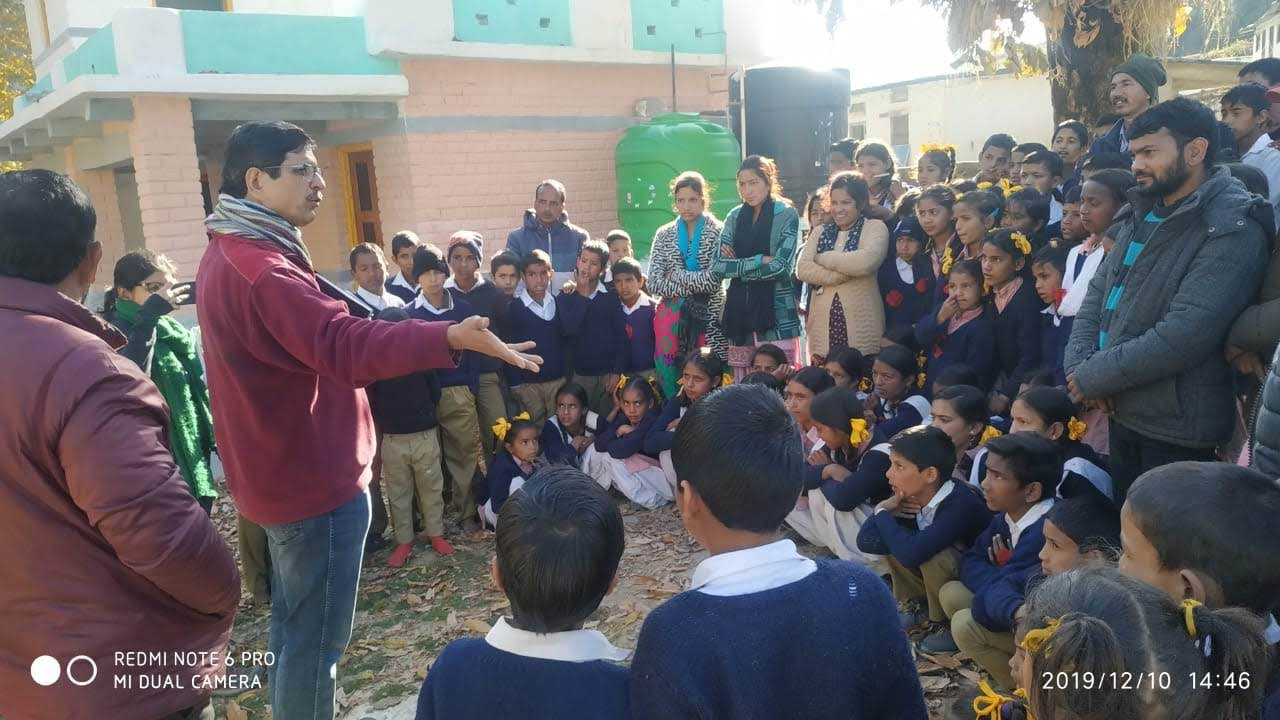
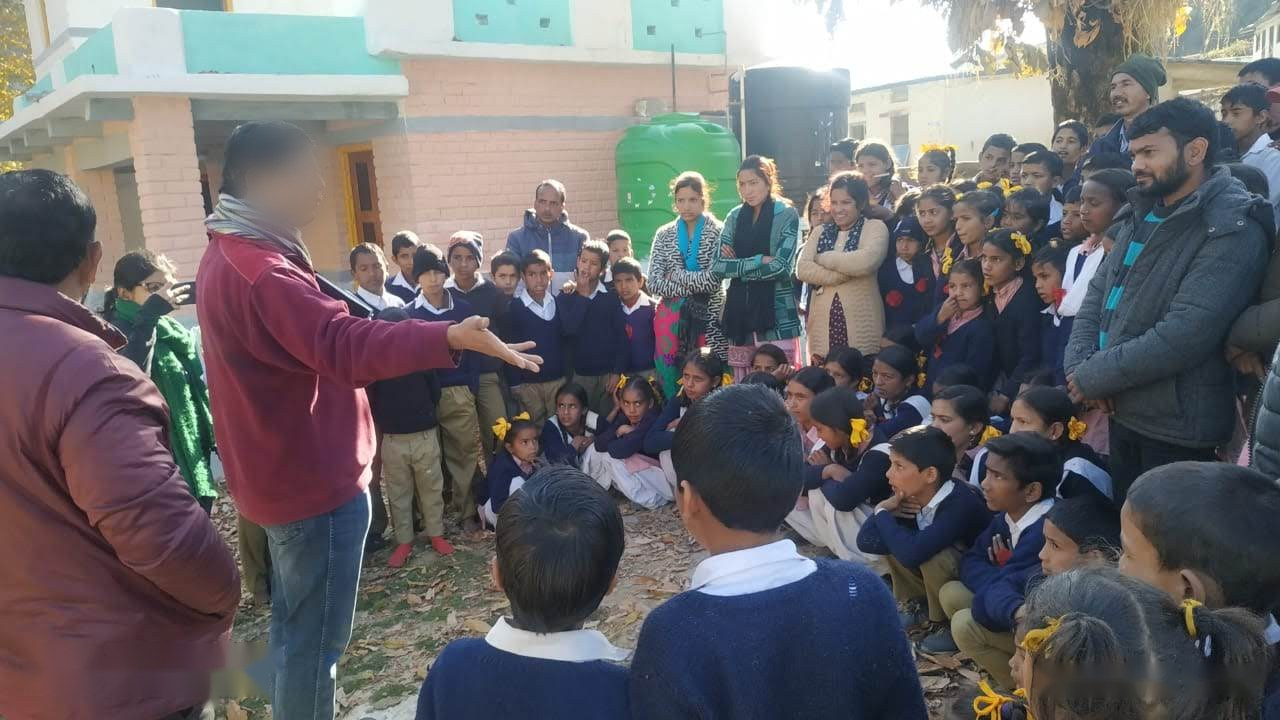
Lower-case email in buttons, correct H2S vial caption, blur speaker face and remove camera stamps in school photo
Claude-Session: https://claude.ai/code/session_01NaRN78tEWT897sM7uE3zkE

Changed region(s): [[0.0, 0.8861, 0.2188, 0.9778], [0.1562, 0.1528, 0.25, 0.3361], [0.8125, 0.9167, 0.9688, 0.9778]]

diff --git a/products.html b/products.html
@@ -164,7 +164,7 @@
 										<ul class="es-btn-row">
 											<li><a href="tel:+918800213777" class="button primary">Call 8800213777</a></li>
 											<li><a href="https://wa.me/918800213777" class="button" target="_blank" rel="noopener">WhatsApp 8800213777</a></li>
-											<li><a href="mailto:ecosuraksha10@gmail.com?subject=Enquiry%20about%20JalSuraksha%20Chloroscope" class="button">Email ecosuraksha10@gmail.com</a></li>
+											<li><a href="mailto:ecosuraksha10@gmail.com?subject=Enquiry%20about%20JalSuraksha%20Chloroscope" class="button">Email <span class="es-lc">ecosuraksha10@gmail.com</span></a></li>
 										</ul>
 										<p class="es-hint">8800213777 works for both voice calls and WhatsApp. You can also <a href="contact.html?topic=chloroscope#enquiry">use our enquiry form</a> for bulk or institutional orders.</p>
 										<p class="es-brochure"><span class="icon solid fa-download"></span> Download brochure: <a href="images/JalsurakshaChloroscope%20Broch_Eng.pdf" target="_blank" rel="noopener">English</a> &middot; <a href="images/JalsurakshaChloroscope%20Broch_Hindi.pdf" target="_blank" rel="noopener">हिन्दी</a></p>
@@ -218,8 +218,8 @@
 										<h4>Photos and video</h4>
 										<div class="es-gallery es-photos">
 										<figure>
-											<img src="images/web/h2s-vial-result-safe-vs-unsafe.jpg" alt="Two JalSuraksha H2S Vials after testing: one still light amber, one turned black" loading="lazy" />
-											<figcaption>After testing: a JalSuraksha H2S Vial that stays light-coloured (left) means fit for drinking; a JalSuraksha H2S Vial that turns black (right) means bacterial contamination.</figcaption>
+											<img src="images/web/h2s-vial-result-safe-vs-unsafe.jpg" alt="Two JalSuraksha H2S Vials after testing: one light yellow-brown (left), one turned black (right)" loading="lazy" />
+											<figcaption>After testing: a JalSuraksha H2S Vial that stays light yellow-brown (left) means the water is fit for drinking; a JalSuraksha H2S Vial that turns black (right) means bacterial contamination is present and the water is unfit for drinking.</figcaption>
 										</figure>
 										<figure>
 											<img src="images/web/h2s-vial-pack.jpg" alt="JalSuraksha H2S Vial pack and an individual JalSuraksha H2S Vial" loading="lazy" />
@@ -236,7 +236,7 @@
 										<ul class="es-btn-row">
 											<li><a href="tel:+918800213777" class="button primary">Call 8800213777</a></li>
 											<li><a href="https://wa.me/918800213777" class="button" target="_blank" rel="noopener">WhatsApp 8800213777</a></li>
-											<li><a href="mailto:ecosuraksha10@gmail.com?subject=Enquiry%20about%20JalSuraksha%20H2S%20Vial" class="button">Email ecosuraksha10@gmail.com</a></li>
+											<li><a href="mailto:ecosuraksha10@gmail.com?subject=Enquiry%20about%20JalSuraksha%20H2S%20Vial" class="button">Email <span class="es-lc">ecosuraksha10@gmail.com</span></a></li>
 										</ul>
 										<p class="es-hint">8800213777 works for both voice calls and WhatsApp. You can also <a href="contact.html?topic=h2s#enquiry">use our enquiry form</a> for bulk or institutional orders.</p>
 										<p class="es-brochure"><span class="icon solid fa-download"></span> Download brochure: <a href="images/JalsurakshaH2S%20VialsBroch_Eng.pdf" target="_blank" rel="noopener">English</a> &middot; <a href="images/JalsurakshaH2S%20VialBroch_Hindi.pdf" target="_blank" rel="noopener">हिन्दी</a></p>
@@ -303,7 +303,7 @@
 										<ul class="es-btn-row">
 											<li><a href="tel:+918800213777" class="button primary">Call 8800213777</a></li>
 											<li><a href="https://wa.me/918800213777" class="button" target="_blank" rel="noopener">WhatsApp 8800213777</a></li>
-											<li><a href="mailto:ecosuraksha10@gmail.com?subject=Enquiry%20about%20JalSuraksha%20Turbidity%20Tube" class="button">Email ecosuraksha10@gmail.com</a></li>
+											<li><a href="mailto:ecosuraksha10@gmail.com?subject=Enquiry%20about%20JalSuraksha%20Turbidity%20Tube" class="button">Email <span class="es-lc">ecosuraksha10@gmail.com</span></a></li>
 										</ul>
 										<p class="es-hint">8800213777 works for both voice calls and WhatsApp. You can also <a href="contact.html?topic=turbidity#enquiry">use our enquiry form</a> for bulk or institutional orders.</p>
 										<p class="es-brochure"><span class="icon solid fa-download"></span> Download brochure: <a href="images/JalSuraksha_Turbidity_Tube_Brochure.pdf" target="_blank" rel="noopener">English</a></p>

diff --git a/assets/css/custom.css b/assets/css/custom.css
@@ -668,3 +668,6 @@ figure.es-video.portrait video { max-height: 36em; }
 .es-detail .es-photos figure.es-video { margin: 0; }
 .es-detail .es-text .es-hint { margin-top: 1em; font-size: 0.9em; }
 .es-detail .es-btn-row .button { text-align: center; }
+
+/* Email addresses always display in lower case, even inside uppercase buttons */
+.es-lc { text-transform: none; letter-spacing: normal; }
